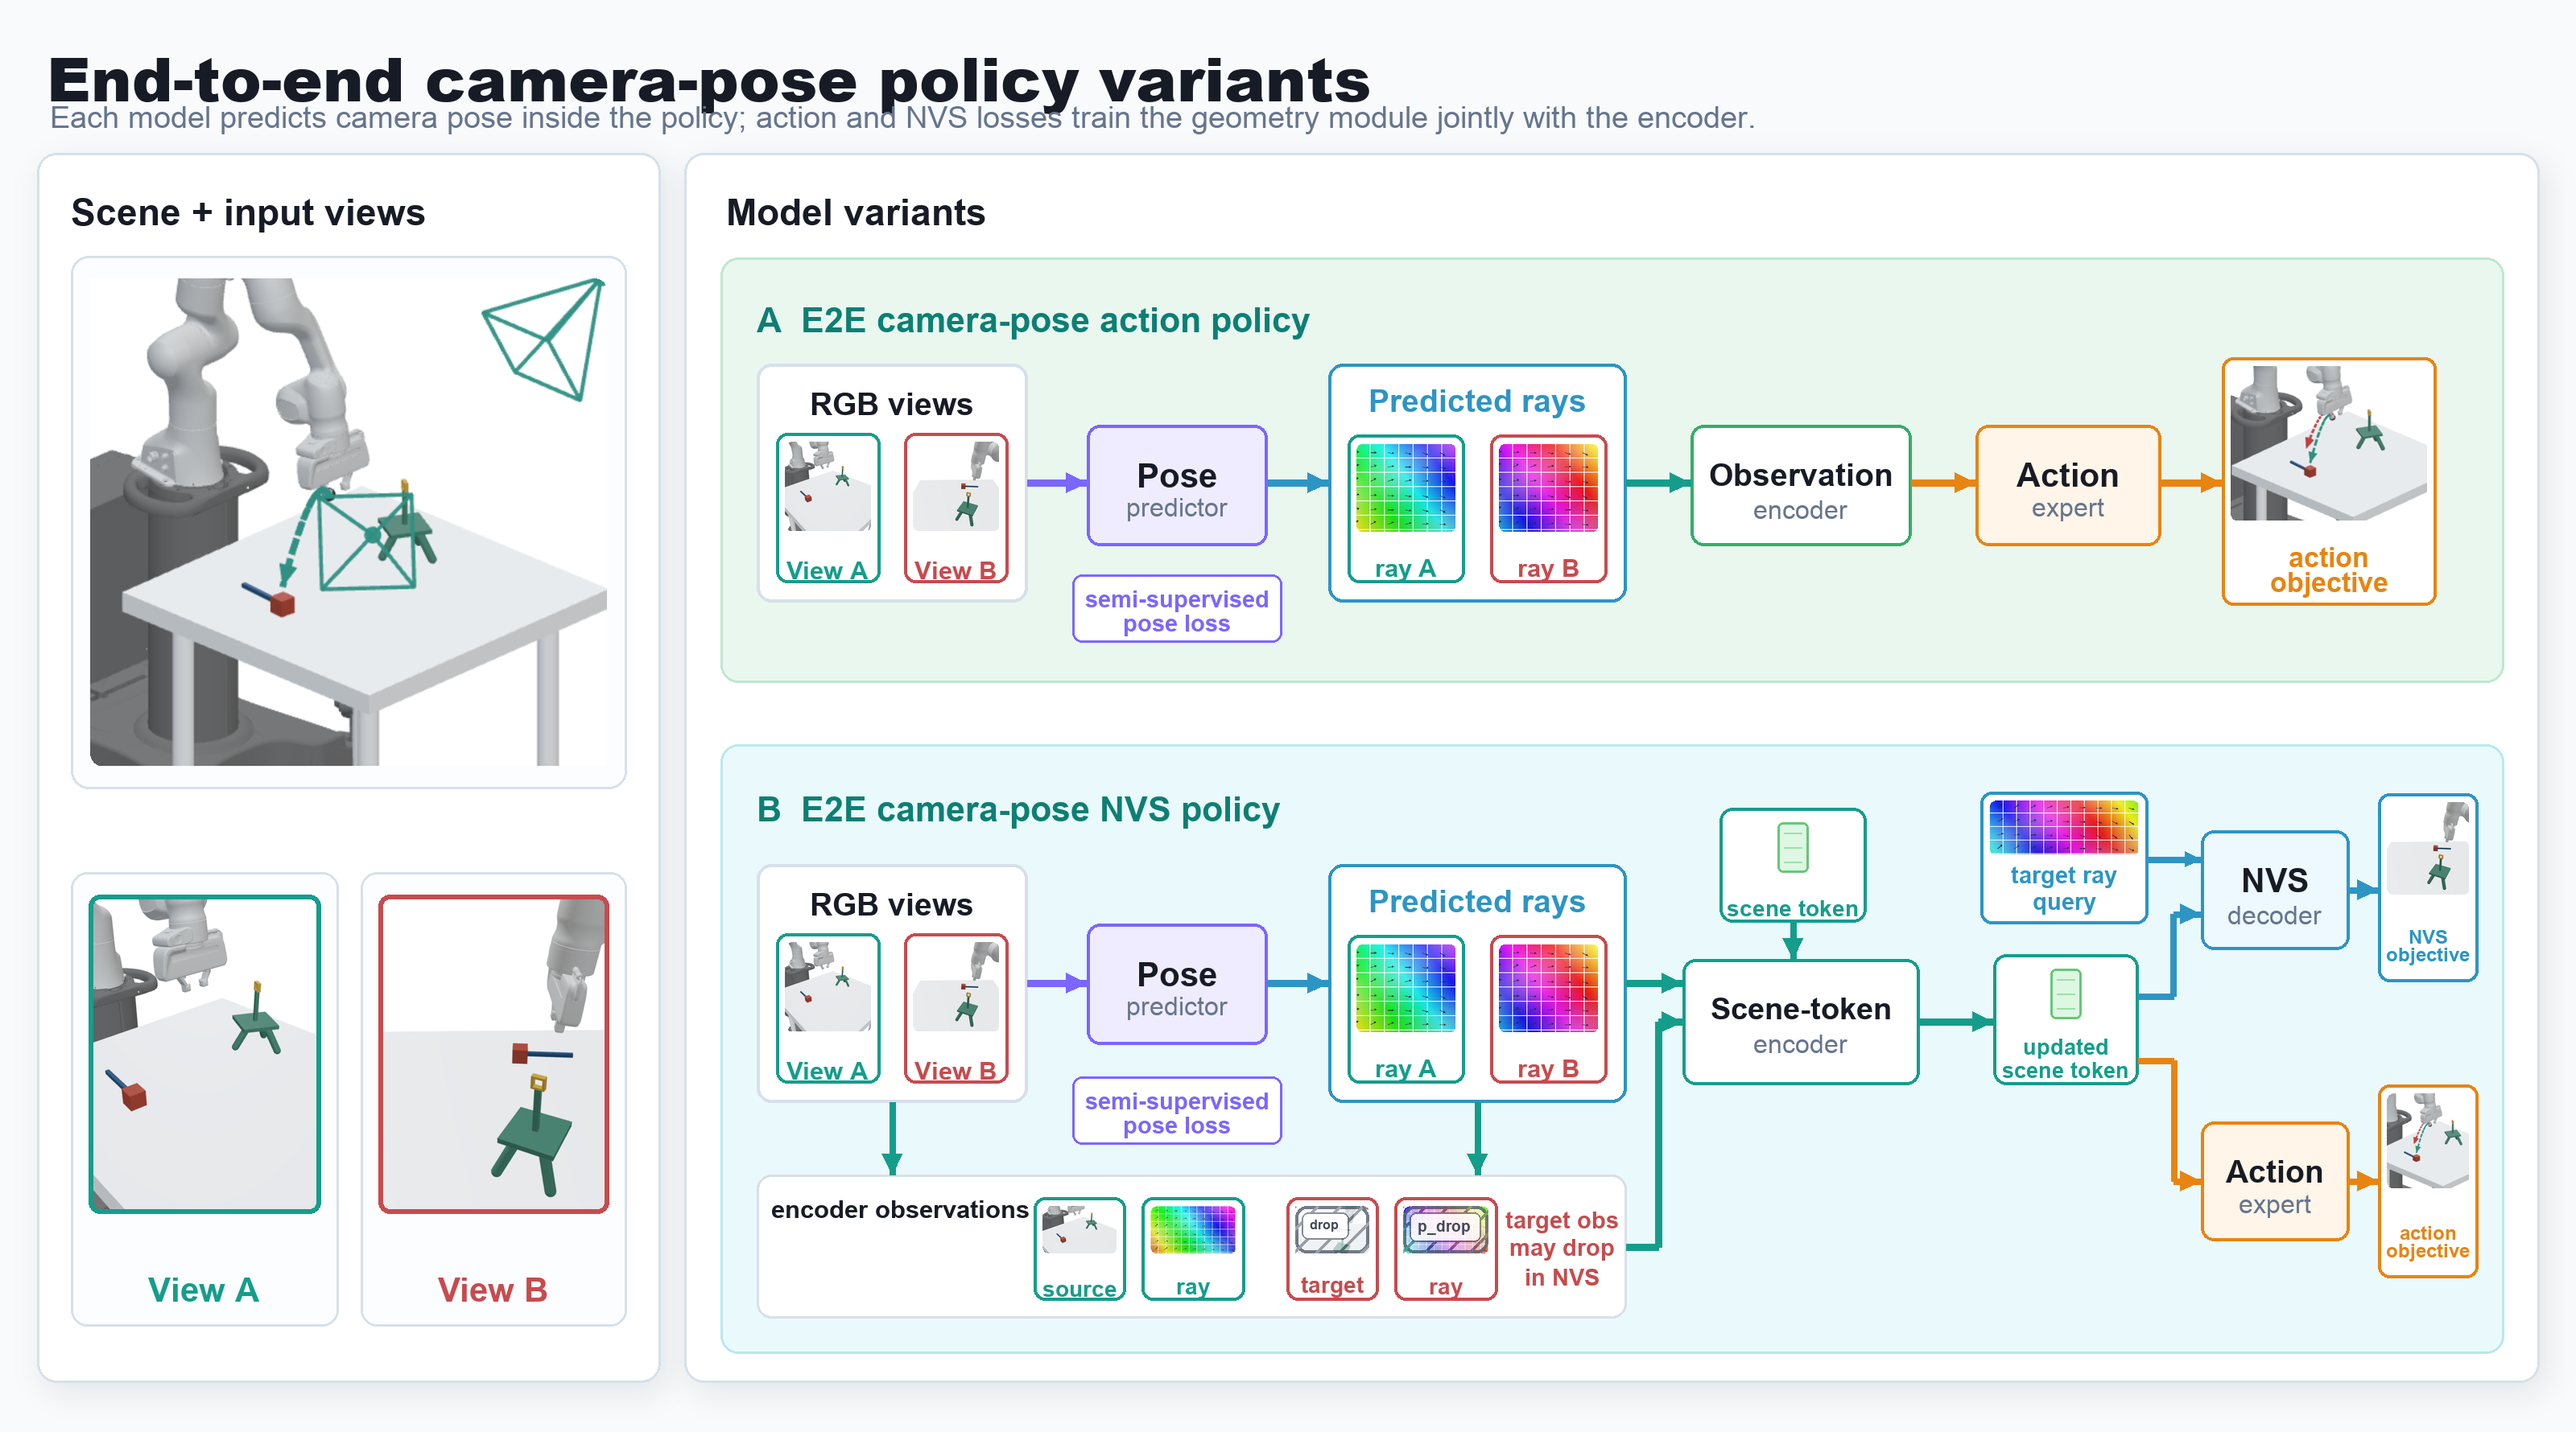
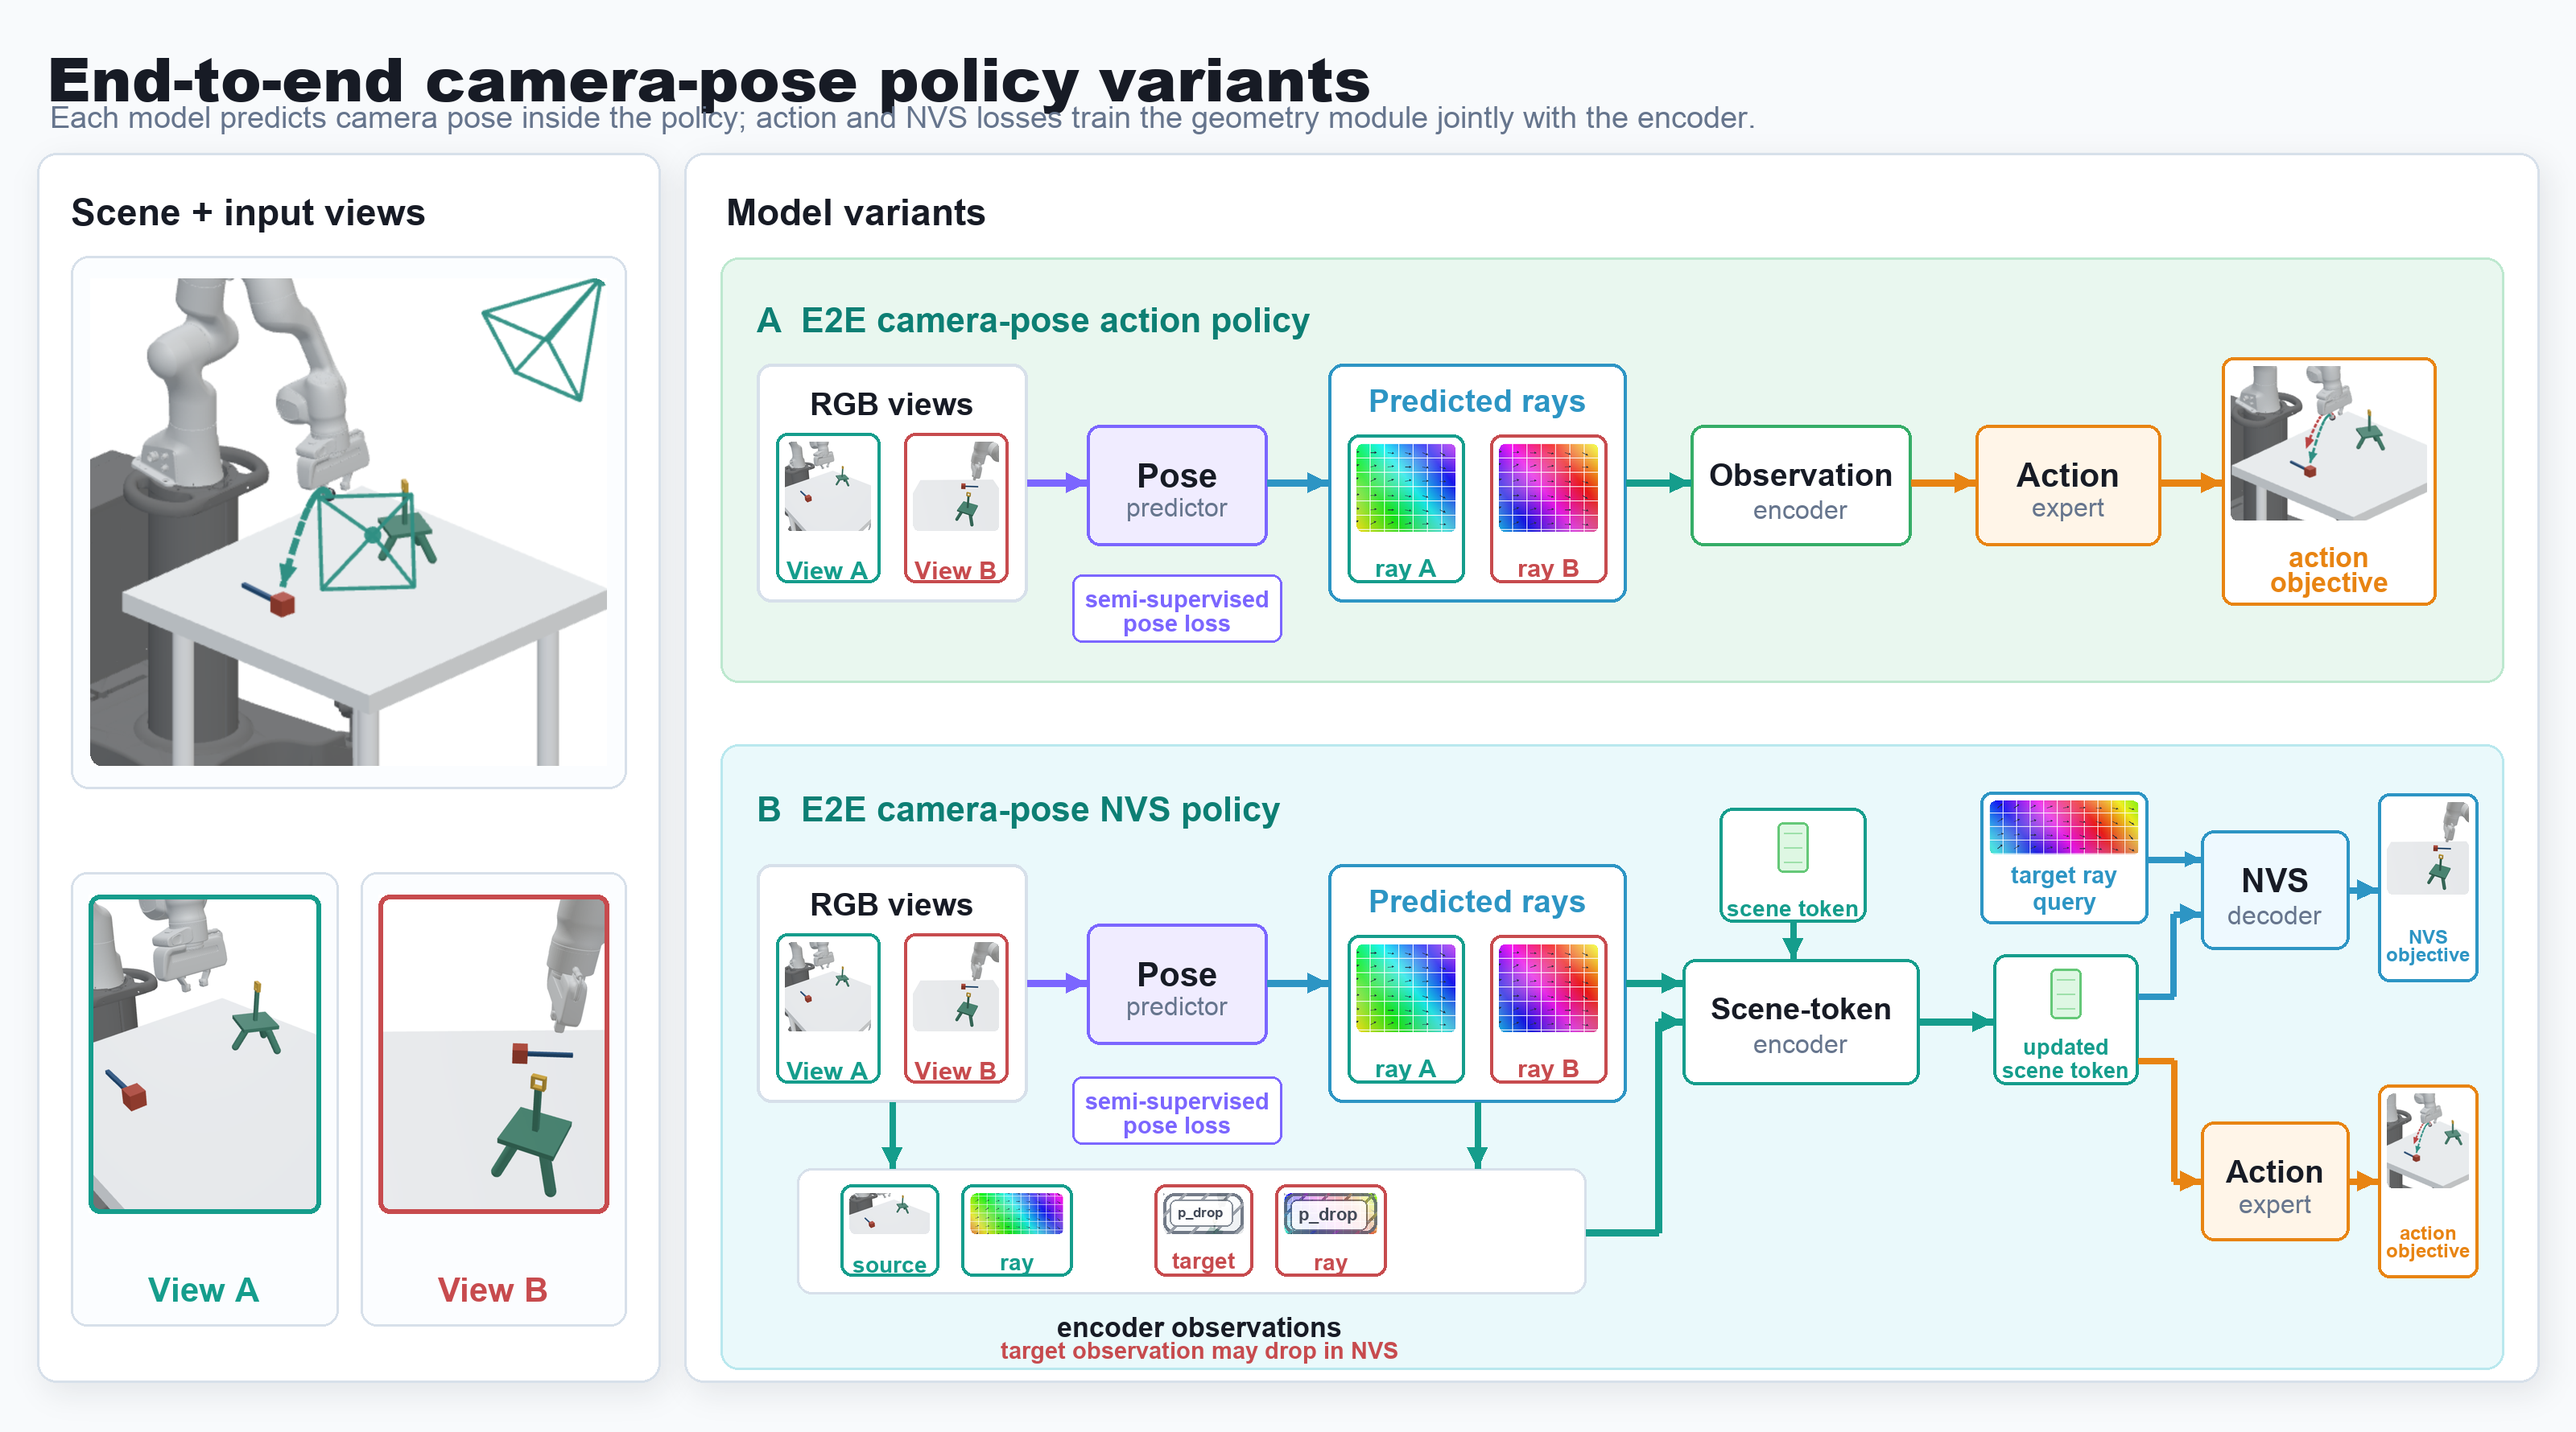
Move encoder observation label below

Changed region(s): [[0.2812, 0.8034, 0.9688, 0.9579]]

diff --git a/figures/scripts/render_pipeline_figure.py b/figures/scripts/render_pipeline_figure.py
@@ -327,7 +327,7 @@ def main():
     arrow([(2374, 600), (2454, 600)], color=C_ORANGE, width=9)
     arrow([(2684, 600), (2760, 600)], color=C_ORANGE, width=9)
 
-    band_b = (895, 925, 3110, 1682)
+    band_b = (895, 925, 3110, 1702)
     rounded(band_b, r=22, fill=C_CYAN_FILL, outline=C_CYAN_STROKE, width=3)
     d.text((940, 982), "B  E2E camera-pose NVS policy", font=F_BAND, fill=C_TEAL_DARK)
     rgb_views_card((940, 1074, 1276, 1370))
@@ -336,18 +336,16 @@ def main():
     arrow([(1276, 1222), (1350, 1222)], color=C_PURPLE, width=9)
     arrow([(1574, 1222), (1650, 1222)], color=C_BLUE, width=9)
 
-    sampler = (940, 1460, 2020, 1638)
+    sampler = (990, 1452, 1970, 1608)
     rounded(sampler, r=18, fill="white", outline=C_LINE, width=3)
-    text_fit_center((1118, 1496), "encoder observations", 34, 330, fill=C_TEXT, bold=True)
-    labeled_tile(view_a, (1284, 1488, 1398, 1616), "source", C_TEAL, label_size=28, image_frac=0.55)
-    labeled_tile(ray_a, (1418, 1488, 1546, 1616), "ray", C_TEAL, label_size=28, image_frac=0.55)
-    labeled_tile(view_b, (1598, 1488, 1712, 1616), "target", C_RED, label_size=28, image_frac=0.55, overlay_drop=True)
-    labeled_tile(ray_b, (1732, 1488, 1860, 1616), "ray", C_RED, label_size=28, image_frac=0.55, overlay_drop=True)
-    text_fit_center((1940, 1514), "target obs", 29, 145, fill=C_RED, bold=True)
-    text_fit_center((1940, 1548), "may drop", 29, 145, fill=C_RED, bold=True)
-    text_fit_center((1940, 1582), "in NVS", 29, 145, fill=C_RED, bold=True)
-    arrow([(1108, 1370), (1108, 1460)], color=C_TEAL, width=8)
-    arrow([(1835, 1370), (1835, 1460)], color=C_TEAL, width=8)
+    labeled_tile(view_a, (1044, 1472, 1166, 1586), "source", C_TEAL, label_size=28, image_frac=0.55)
+    labeled_tile(ray_a, (1194, 1472, 1332, 1586), "ray", C_TEAL, label_size=28, image_frac=0.55)
+    labeled_tile(view_b, (1434, 1472, 1556, 1586), "target", C_RED, label_size=28, image_frac=0.55, overlay_drop=True)
+    labeled_tile(ray_b, (1584, 1472, 1722, 1586), "ray", C_RED, label_size=28, image_frac=0.55, overlay_drop=True)
+    text_fit_center((1490, 1644), "encoder observations", 34, 620, fill=C_TEXT, bold=True)
+    text_fit_center((1490, 1676), "target observation may drop in NVS", 29, 760, fill=C_RED, bold=True)
+    arrow([(1108, 1370), (1108, 1452)], color=C_TEAL, width=8)
+    arrow([(1835, 1370), (1835, 1452)], color=C_TEAL, width=8)
 
     scene_token_glyph((2136, 1004, 2318, 1146), "scene token", label_size=30)
     node((2090, 1192, 2384, 1348), "Scene-token", "encoder", stroke=C_TEAL, fill="white", title_size=38)
@@ -358,7 +356,7 @@ def main():
     node((2734, 1394, 2918, 1542), "Action", "expert", stroke=C_ORANGE, fill=C_ORANGE_FILL, title_size=39)
     labeled_tile(action_crop, (2954, 1348, 3078, 1588), "action\nobjective", C_ORANGE, label_size=29, image_frac=0.54)
     arrow([(2020, 1222), (2090, 1222)], color=C_TEAL, width=9)
-    arrow([(2020, 1550), (2060, 1550), (2060, 1270), (2090, 1270)], color=C_TEAL, width=9)
+    arrow([(1970, 1532), (2060, 1532), (2060, 1270), (2090, 1270)], color=C_TEAL, width=9)
     arrow([(2227, 1146), (2227, 1192)], color=C_TEAL, width=8)
     arrow([(2384, 1270), (2476, 1270)], color=C_TEAL, width=9)
     arrow([(2656, 1238), (2700, 1238), (2700, 1136), (2734, 1136)], color=C_BLUE, width=8)
